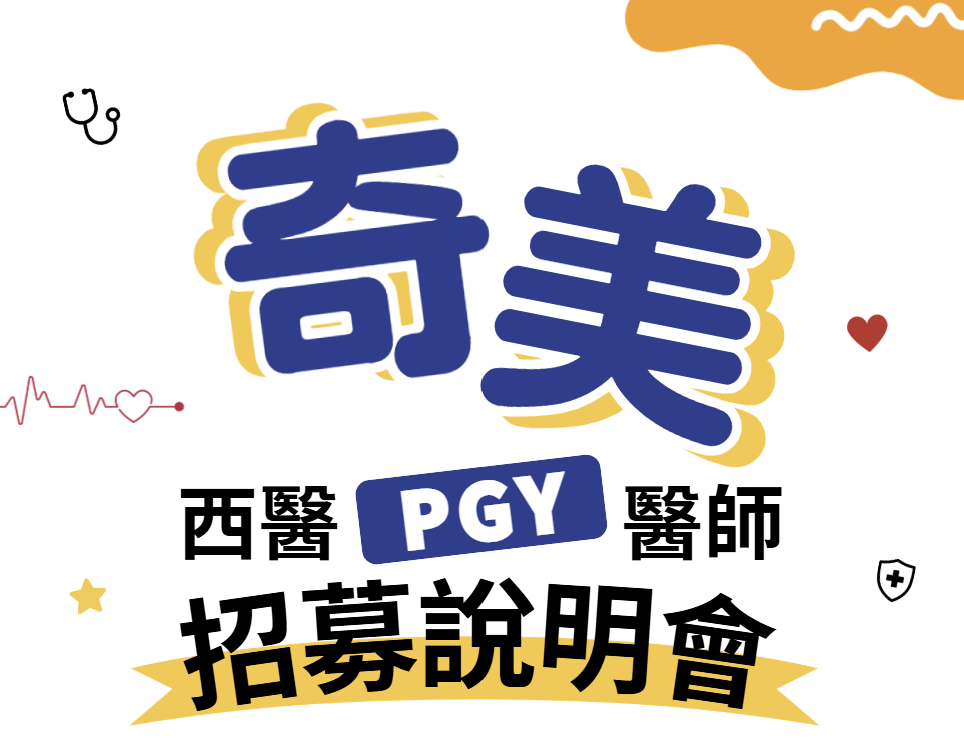
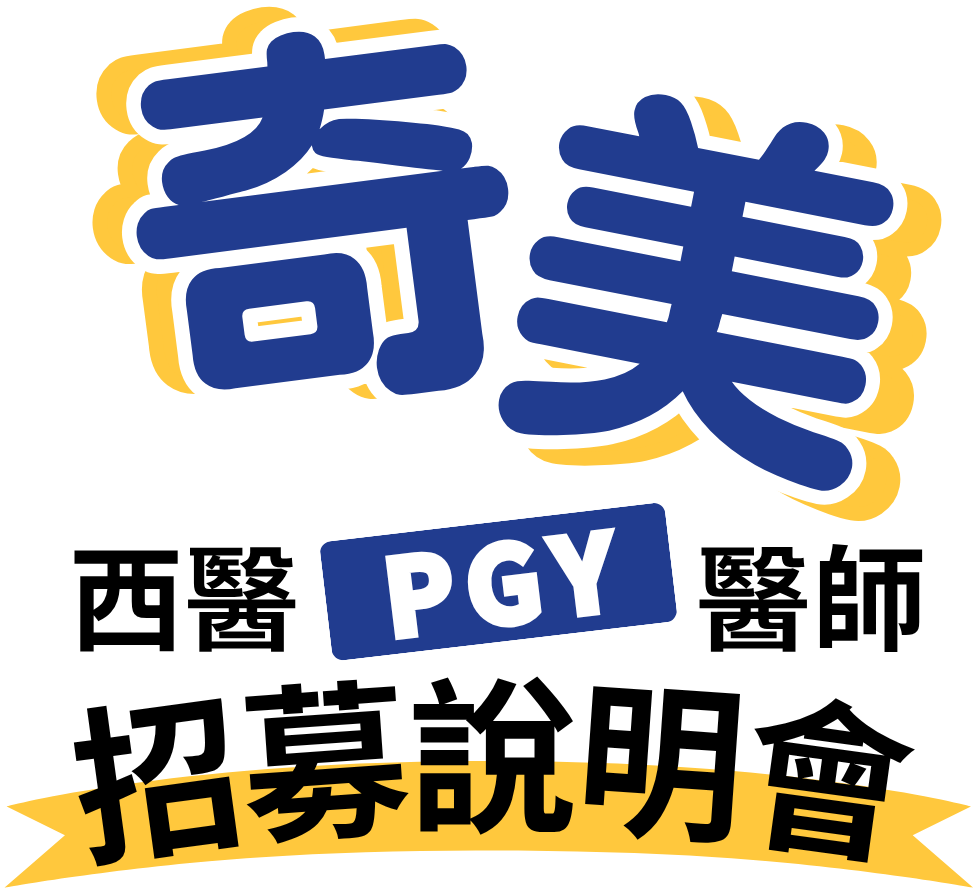
歌詞播放頁：左上角主視覺改用透明背景版，移除白底卡片與左上深藍色塊
Claude-Session: https://claude.ai/code/session_01HH3Uic7B7GKvdUspcu4Pwt

diff --git a/cmh_musiccc/index.html b/cmh_musiccc/index.html
@@ -41,7 +41,7 @@ svg{display:block}
 .app{position:relative;z-index:1;height:100%;display:flex;flex-direction:column;align-items:center;justify-content:center;
   gap:clamp(10px,2.2vh,26px);padding:clamp(12px,2.5vh,28px) 16px}
 .top{position:absolute;top:clamp(10px,2vh,22px);left:clamp(12px,2vw,28px);right:clamp(12px,2vw,28px);display:flex;justify-content:space-between;align-items:flex-start;gap:12px;z-index:3}
-.poster{display:block;width:clamp(140px,14vw,280px);height:auto;background:#fff;border:3px solid var(--ink);box-shadow:5px 5px 0 var(--ink);border-radius:clamp(12px,1.2vw,20px);transform:rotate(-2deg)}
+.poster{display:block;width:clamp(150px,15vw,300px);height:auto;filter:drop-shadow(0 4px 10px rgba(255,255,255,.9))}
 .song-tag{display:flex;align-items:center;gap:8px;background:var(--navy);color:#fff;border:3px solid var(--ink);box-shadow:4px 4px 0 var(--ink);border-radius:999px;padding:6px 16px;font-weight:900;font-size:clamp(.8rem,1.2vw,1.05rem);transform:rotate(2deg)}
 .song-tag .note{color:var(--yellow);font-size:1.2em;animation:hop 1.2s ease-in-out infinite}
 
@@ -151,7 +151,6 @@ body.idle .dock{opacity:0;transform:translate(30px,-50%);pointer-events:none}
 </svg>
 
 <div class="bg" aria-hidden="true">
-  <svg class="deco d-tl" viewBox="0 0 300 300"><path class="blob b-navy" d="M40 60c40-50 120-30 130 20s-40 70-30 120-90 70-120 20S0 110 40 60z"/><g class="dots"><circle cx="70" cy="100" r="7"/><circle cx="100" cy="80" r="5"/><circle cx="60" cy="150" r="6"/><circle cx="110" cy="130" r="5"/><circle cx="85" cy="190" r="7"/></g></svg>
   <svg class="deco d-tr" viewBox="0 0 360 300"><path class="blob b-orange" d="M120 0h240v200c-30 40-80 10-100 50s-90 40-90-10 40-60 10-90-90-20-80-70S90 20 120 0z"/></svg>
   <svg class="deco d-bl" viewBox="0 0 320 300"><path class="blob b-red" d="M0 120c50-30 100 10 130 60s70 50 60 100-160 30-190 20z"/></svg>
   <svg class="deco d-br" viewBox="0 0 320 300"><path class="blob b-navy" d="M320 80c-60 0-90 40-110 90s-80 40-80 90 50 50 190 40z"/><g class="dots"><circle cx="250" cy="170" r="7"/><circle cx="280" cy="140" r="5"/><circle cx="220" cy="230" r="6"/><circle cx="270" cy="250" r="7"/></g></svg>
